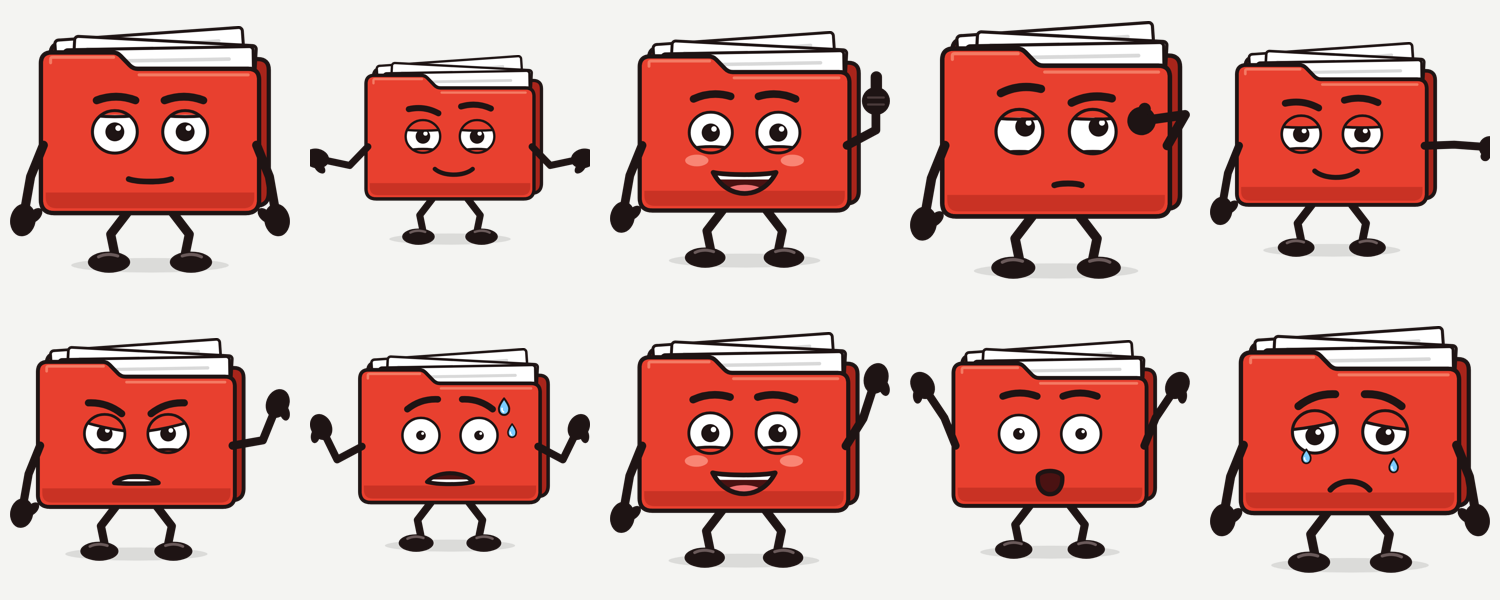
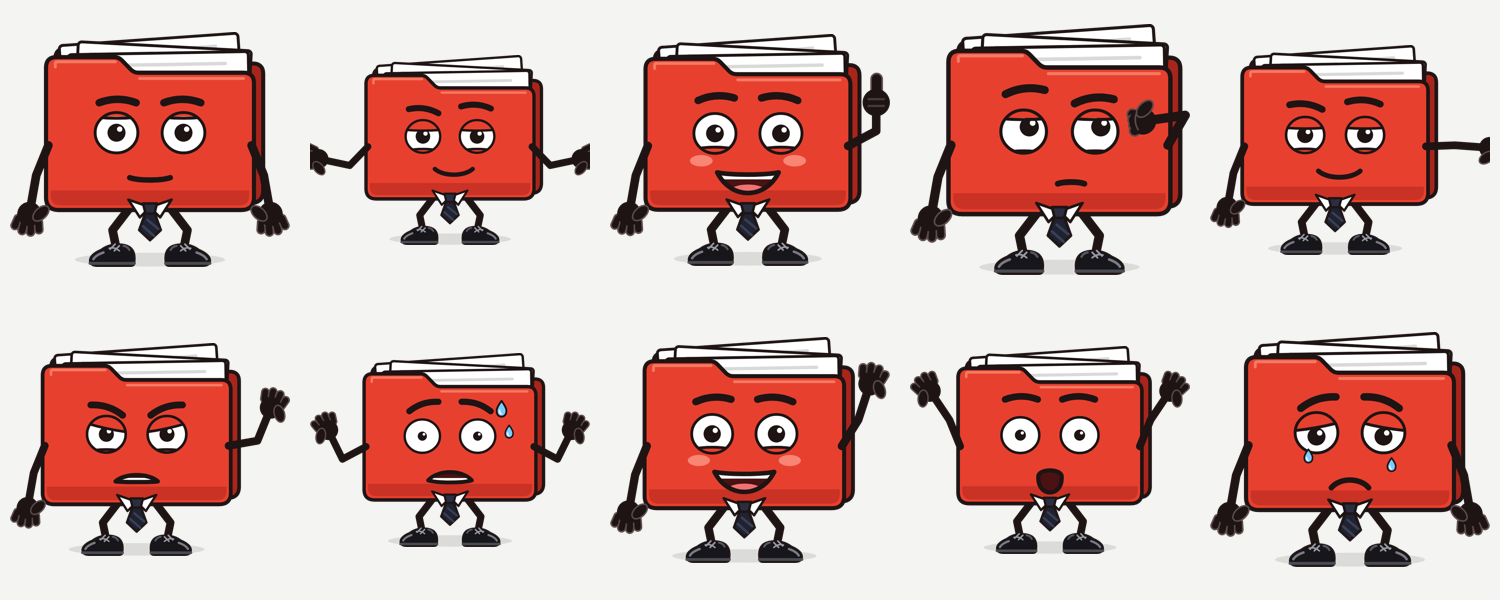
Maskot SVG: kravat, parmaklı eller, kurumsal ayakkabı (belirgin mod)
Claude-Session: https://claude.ai/code/session_01GNARrpiDMrPheh53VXK2Rq

diff --git a/scripts/dosya/dosya.js b/scripts/dosya/dosya.js
@@ -130,16 +130,40 @@
   const SH = { l: [124, 318], r: [476, 318] };
   // Belirgin uzuv modu (yalnızca istenirse): kalın kol/bacak, büyük el ve ayakkabı
   let UZ = { kol: 10, el: 1, ayak: 1 };
-  function belirgin(on = true) { UZ = on ? { kol: 15, el: 1.5, ayak: 1.45 } : { kol: 10, el: 1, ayak: 1 }; }
+  function belirgin(on = true) { UZ = on ? { kol: 15, el: 1.5, ayak: 1.45, parmak: true, ayakkabi: true, kravat: true } : { kol: 10, el: 1, ayak: 1 }; }
+  const SEAM = 'stroke="#5a4a4a" stroke-width="1.8"';
+  function parmakliEl(pose, sg, F) {
+    const thumbX = -13 * sg, th = `<ellipse cx="${thumbX}" cy="9" rx="6.5" ry="11" fill="${F}" ${SEAM} transform="rotate(${-38 * sg} ${thumbX} 9)"/>`;
+    if (pose === 'acik') return [-1.5, -.5, .5, 1.5].map(i => `<rect x="-4.6" y="0" width="9.2" height="${i * i > 1 ? 18 : 22}" rx="4.6" fill="${F}" ${SEAM} transform="translate(${R(i * 7.2)} 15) rotate(${R(-i * 9)})"/>`).join('') + `<circle cx="0" cy="12" r="14" fill="${F}"/>` + th;
+    const bumps = xs => xs.map(x => `<circle cx="${x}" cy="23" r="5.6" fill="${F}" ${SEAM}/>`).join('');
+    if (pose === 'yumruk') return `${bumps([-9, -3, 3, 9])}<circle cx="0" cy="13" r="14.5" fill="${F}"/><path d="M-9 19 Q0 23 9 19" stroke="#5a4a4a" stroke-width="1.8" fill="none"/>${th}`;
+    if (pose === 'isaret') return `<rect x="-4.6" y="14" width="9.2" height="34" rx="4.6" fill="${F}" ${SEAM}/>${bumps([-7 * sg, -1 * sg, 5 * sg].map(x => x + 3 * sg))}<circle cx="0" cy="12" r="14" fill="${F}"/>${th}`;
+    return '';
+  }
+  function ayakkabi(sg) {
+    return `<g transform="scale(${sg} 1)"><path d="M-20 8 Q-22 -9 -8 -12 Q8 -15 20 -6 Q34 0 33 8 Q32 13 24 13 H-15 Q-21 13 -20 8 Z" fill="#17171B" stroke="${C.line}" stroke-width="2.5"/>
+      <path d="M-20 10 H33" stroke="#4a4a52" stroke-width="3.5" stroke-linecap="round"/>
+      <path d="M-2 -11 L4 -5 M3 -13 L9 -7 M-2 -5 Q4 -10 10 -8" stroke="#9a9aa4" stroke-width="2" fill="none" stroke-linecap="round"/>
+      <path d="M17 -3 Q26 0 29 5" stroke="#7a7a86" stroke-width="3" fill="none" stroke-linecap="round"/><path d="M-14 -6 Q-12 -10 -7 -11" stroke="#55555f" stroke-width="2.5" fill="none" stroke-linecap="round"/></g>`;
+  }
+  function kravat() {
+    if (!UZ.kravat) return '';
+    const L = C.line;
+    return `<g id="kravat" transform="translate(0 12) translate(300 400) scale(1.1) translate(-300 -400)"><path d="M266 400 L300 412 L284 428 Z" fill="#fff" stroke="${L}" stroke-width="4" stroke-linejoin="round"/><path d="M334 400 L300 412 L316 428 Z" fill="#fff" stroke="${L}" stroke-width="4" stroke-linejoin="round"/>
+      <path d="M293 420 L307 420 L317 448 L300 464 L283 448 Z" fill="#1F2230" stroke="${L}" stroke-width="4" stroke-linejoin="round"/>
+      <path d="M296 432 L313 446 M289 442 L306 457" stroke="#3A3F55" stroke-width="4" stroke-linecap="round"/>
+      <path d="M289 406 L311 406 L307 422 L293 422 Z" fill="#2A2E40" stroke="${L}" stroke-width="4" stroke-linejoin="round"/></g>`;
+  }
   function hand(pose, hx, hy, dirDeg, sg) {
     const T = `translate(${R(hx)} ${R(hy)}) rotate(${R(dirDeg - 90)})`;
     const F = C.line, hi = `<path d="M-6 4 Q-2 -1 4 1" stroke="#5a4a4a" stroke-width="3" fill="none" stroke-linecap="round"/>`;
     if (pose === 'basparmak') {
-      return `<g transform="translate(${R(hx)} ${R(hy)}) scale(${UZ.el})"><rect x="-6" y="-34" width="13" height="30" rx="6.5" fill="${F}"/><circle cx="0" cy="0" r="16" fill="${F}"/>
+      return `<g transform="translate(${R(hx)} ${R(hy)}) scale(${UZ.el})"><rect x="-6" y="-34" width="13" height="30" rx="6.5" fill="${F}" ${UZ.parmak ? SEAM : ''}/><circle cx="0" cy="0" r="16" fill="${F}"/>
         <path d="M-9 -4 H9 M-9 4 H9" stroke="#4a3a3a" stroke-width="2.5" stroke-linecap="round"/></g>`;
     }
     const thumbX = -12 * sg;
-    let g = '';
+    let g = UZ.parmak ? parmakliEl(pose, sg, F) : '';
+    if (g) return `<g transform="${T} scale(${UZ.el})">${g}</g>`;
     if (pose === 'acik') g = `<ellipse cx="0" cy="15" rx="14" ry="18" fill="${F}"/><ellipse cx="${thumbX}" cy="8" rx="6" ry="10" fill="${F}" transform="rotate(${-35 * sg} ${thumbX} 8)"/>`;
     if (pose === 'yumruk') g = `<circle cx="0" cy="13" r="15" fill="${F}"/><circle cx="${thumbX}" cy="8" r="6.5" fill="${F}"/>`;
     if (pose === 'isaret') g = `<circle cx="0" cy="12" r="14" fill="${F}"/><rect x="-5" y="14" width="11" height="32" rx="5.5" fill="${F}"/><circle cx="${thumbX}" cy="7" r="6" fill="${F}"/>`;
@@ -173,8 +197,8 @@
     const sg = side === 'l' ? -1 : 1;
     const knee = ik(hip, foot, 44, 44, side === 'l' ? 1 : -1);
     return `<path d="M${R(hip[0])} ${R(hip[1])} L${R(knee[0])} ${R(knee[1])} L${R(foot[0])} ${R(foot[1])}" fill="none" ${ST(UZ.kol)}/>
-    <g transform="translate(${R(foot[0])} ${R(foot[1])}) rotate(${R(-lift * sg)}) scale(${UZ.ayak})"><ellipse cx="${8 * sg}" cy="2" rx="24" ry="12" fill="${C.line}"/>
-    <path d="M${-2 * sg} -5 Q${10 * sg} -9 ${20 * sg} -4" stroke="#6a5a5a" stroke-width="3.5" fill="none" stroke-linecap="round"/></g>`;
+    <g transform="translate(${R(foot[0])} ${R(foot[1])}) rotate(${R(-lift * sg)}) scale(${UZ.ayak})">${UZ.ayakkabi ? ayakkabi(sg) : `<ellipse cx="${8 * sg}" cy="2" rx="24" ry="12" fill="${C.line}"/>
+    <path d="M${-2 * sg} -5 Q${10 * sg} -9 ${20 * sg} -4" stroke="#6a5a5a" stroke-width="3.5" fill="none" stroke-linecap="round"/>`}</g>`;
   }
 
   // ---------------- EFEKTLER ----------------
@@ -206,7 +230,7 @@
     return `<ellipse cx="300" cy="556" rx="${R(130 - jump * .5)}" ry="12" fill="#000" opacity="${R(.13 - jump * .0006)}"/>
     ${leg('l', hips.l, fL, lift[0])}${leg('r', hips.r, fR, lift[1])}
     <g transform="translate(0 ${R(40 + by - jump)}) rotate(${R(lean)} 300 430) translate(300 430) scale(${R(1 + sq * .5)} ${R(1 - sq)}) translate(-300 -430)">
-      ${(() => { const [bk, fr] = body(s.flap || 0).split('<!--ON-->'); return bk + (s.armBehind ? arm('r', s.armR, s.aks, s.tut) : '') + fr; })()}${cubbe(s.aks)}
+      ${(() => { const [bk, fr] = body(s.flap || 0).split('<!--ON-->'); return bk + (s.armBehind ? arm('r', s.armR, s.aks, s.tut) : '') + fr; })()}${cubbe(s.aks)}${kravat()}
       <g id="face">${face}</g>
       ${arm('l', s.armL, s.aks)}${s.armBehind ? '' : arm('r', s.armR, s.aks, s.tut)}
     </g>
